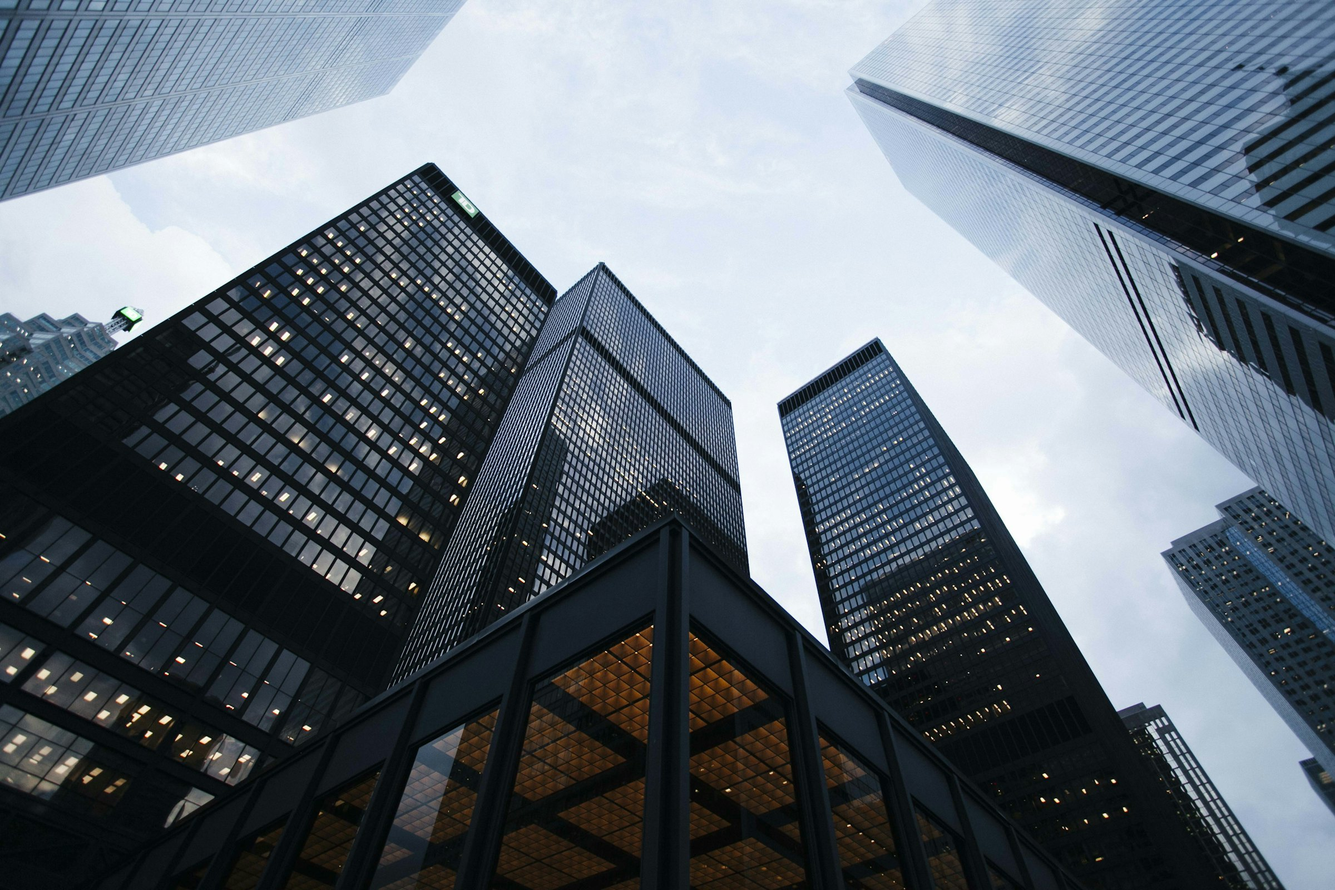
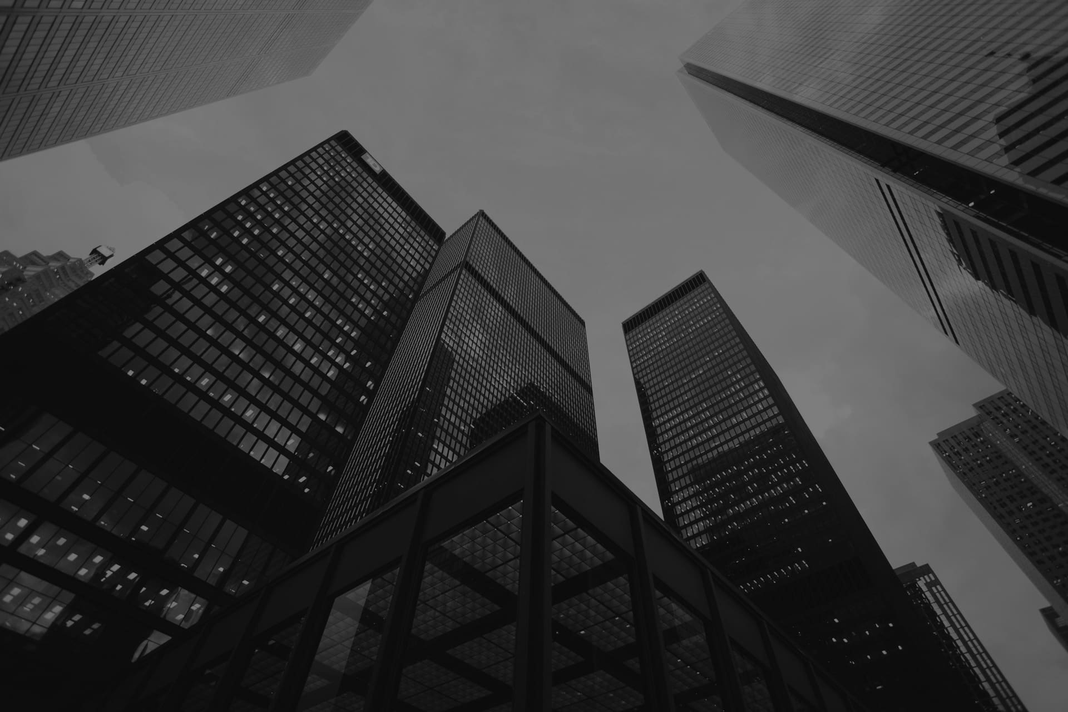
seo changes

diff --git a/src/components/ui.tsx b/src/components/ui.tsx
@@ -90,13 +90,33 @@ export function SectionHeading({
  * Photographic backdrop for dark page headers. Desaturated and held back
  * behind an ink wash so the headline stays the loudest thing on screen.
  */
-export function HeroBackdrop({ src, priority = false }: { src: string; priority?: boolean }) {
+export function HeroBackdrop({ src }: { src: string }) {
   return (
     <div aria-hidden="true" className="absolute inset-0 -z-10">
-      <Image src={src} alt="" fill priority={priority} sizes="100vw" quality={60} className="object-cover opacity-45 grayscale" />
+      {/* The photo files are already desaturated and darkened, so no CSS filter is needed. */}
+      <Image src={src} alt="" fill preload fetchPriority="high" loading="eager" sizes="100vw" quality={60} className="object-cover" />
       <div className="absolute inset-0 bg-[linear-gradient(90deg,#151613_0%,rgba(21,22,19,0.88)_45%,rgba(21,22,19,0.55)_100%)]" />
       <div className="absolute inset-x-0 bottom-0 h-1/3 bg-[linear-gradient(0deg,#151613,transparent)]" />
     </div>
+  );
+}
+
+/**
+ * Page heading for dark headers. The short keyword label and the headline
+ * are one <h1>, so search engines read "ERP System Development: Stop running
+ * a company on spreadsheets" while visitors see a label above a headline.
+ */
+export function HeroHeading({ label, children, size = "h1" }: { label?: string; children: ReactNode; size?: "h1" | "display" }) {
+  return (
+    <h1>
+      {label && (
+        <>
+          <span className="eyebrow block text-lime">{label}</span>
+          <span className="sr-only">: </span>
+        </>
+      )}
+      <span className={`${size} block ${label ? "mt-4" : ""}`}>{children}</span>
+    </h1>
   );
 }
 
@@ -111,13 +131,17 @@ export function PageHero({
   title,
   lead,
   crumbs,
+  path,
   children,
   aside,
 }: {
+  /** Short keyword label. Rendered as the first part of the page's <h1>. */
   eyebrow?: string;
   title: ReactNode;
   lead?: ReactNode;
   crumbs?: Crumb[];
+  /** This page's path. When given, breadcrumb structured data is emitted. */
+  path?: string;
   /** Buttons or meta shown under the lead. */
   children?: ReactNode;
   /** Optional right column on large screens. */
@@ -125,7 +149,7 @@ export function PageHero({
 }) {
   return (
     <section className="on-ink relative isolate overflow-hidden bg-ink text-paper">
-      <HeroBackdrop src="/images/hero-interior.jpg" priority />
+      <HeroBackdrop src="/images/hero-interior.jpg" />
       <div className="wrap pb-16 pt-10 md:pb-24 md:pt-14">
         {crumbs && (
           <nav aria-label="Breadcrumb" className="mb-10 md:mb-14">
@@ -154,14 +178,27 @@ export function PageHero({
         )}
         <div className={aside ? "grid gap-12 lg:grid-cols-[1.35fr_1fr] lg:gap-16" : ""}>
           <div className="max-w-4xl">
-            {eyebrow && <Eyebrow tone="dark">{eyebrow}</Eyebrow>}
-            <h1 className={`h1 ${eyebrow ? "mt-4" : ""}`}>{title}</h1>
+            <HeroHeading label={eyebrow}>{title}</HeroHeading>
             {lead && <p className="lead mt-6 max-w-2xl text-fog">{lead}</p>}
             {children && <div className="mt-9">{children}</div>}
           </div>
           {aside && <div className="lg:pt-2">{aside}</div>}
         </div>
       </div>
+      {crumbs && path && (
+        <JsonLd
+          data={{
+            "@context": "https://schema.org",
+            "@type": "BreadcrumbList",
+            itemListElement: [{ label: "Home", href: "/" }, ...crumbs].map((c, i) => ({
+              "@type": "ListItem",
+              position: i + 1,
+              name: c.label,
+              item: `${site.url}${c.href ?? path}`.replace(/\/$/, ""),
+            })),
+          }}
+        />
+      )}
     </section>
   );
 }

diff --git a/src/app/layout.tsx b/src/app/layout.tsx
@@ -3,7 +3,7 @@ import { Geist, Geist_Mono } from "next/font/google";
 import { Footer } from "@/components/footer";
 import { Header } from "@/components/header";
 import { JsonLd } from "@/components/ui";
-import { site } from "@/lib/site";
+import { serviceNav, site } from "@/lib/site";
 import "./globals.css";
 
 const geistSans = Geist({ variable: "--font-geist-sans", subsets: ["latin"], display: "swap" });
@@ -12,7 +12,7 @@ const geistMono = Geist_Mono({ variable: "--font-geist-mono", subsets: ["latin"]
 export const metadata: Metadata = {
   metadataBase: new URL(site.url),
   title: {
-    default: `${site.name} | Custom Software, ERP and AI Development`,
+    default: `Custom Software Development Company | ${site.name}`,
     template: `%s | ${site.name}`,
   },
   description: site.description,
@@ -22,7 +22,7 @@ export const metadata: Metadata = {
     siteName: site.name,
     locale: "en_CA",
     url: site.url,
-    title: `${site.name} | Custom Software, ERP and AI Development`,
+    title: `Custom Software Development Company | ${site.name}`,
     description: site.description,
   },
   twitter: { card: "summary_large_image" },
@@ -44,7 +44,7 @@ export const viewport: Viewport = {
 
 export default function RootLayout({ children }: LayoutProps<"/">) {
   return (
-    <html lang="en" className={`${geistSans.variable} ${geistMono.variable} antialiased`}>
+    <html lang="en-CA" className={`${geistSans.variable} ${geistMono.variable} antialiased`}>
       <body className="flex min-h-dvh flex-col">
         <noscript>
           <style>{`.reveal-group > * { opacity: 1 !important; transform: none !important; }`}</style>
@@ -84,10 +84,14 @@ export default function RootLayout({ children }: LayoutProps<"/">) {
             description: site.description,
             address: site.offices.map((o) => ({
               "@type": "PostalAddress",
-              addressLocality: o.city,
-              addressCountry: o.country,
+              addressLocality: o.city.split(",")[0],
+              addressRegion: "ON",
+              addressCountry: "CA",
             })),
-            sameAs: [site.social.linkedin],
+            areaServed: ["CA", "US"],
+            knowsAbout: serviceNav.map((s) => s.name),
+            // Profiles and phone numbers are published only once they are real.
+            ...(/linkedin\.com\/(company|in)\//.test(site.social.linkedin) ? { sameAs: [site.social.linkedin] } : {}),
           }}
         />
       </body>

diff --git a/src/app/page.tsx b/src/app/page.tsx
@@ -4,7 +4,7 @@ import { ArrowUpRight } from "@phosphor-icons/react/dist/ssr";
 import { CaseCard } from "@/components/case-card";
 import { Icon } from "@/components/icon";
 import { RevealGroup } from "@/components/motion";
-import { ArrowLink, Button, CtaBand, Eyebrow, FaqJsonLd, FaqList, HeroBackdrop, SectionHeading, StatRow } from "@/components/ui";
+import { ArrowLink, Button, CtaBand, Eyebrow, FaqJsonLd, FaqList, HeroBackdrop, HeroHeading, SectionHeading, StatRow } from "@/components/ui";
 import { caseStudies } from "@/content/case-studies";
 import { CONSULTATION_HREF, industryNav, serviceNav, site } from "@/lib/site";
 import type { Faq, IconKey } from "@/lib/types";
@@ -91,11 +91,12 @@ export default function HomePage() {
     <>
       {/* Hero */}
       <section className="on-ink relative isolate overflow-hidden bg-ink text-paper">
-        <HeroBackdrop src="/images/hero-towers.jpg" priority />
+        <HeroBackdrop src="/images/hero-towers.jpg" />
         <div className="wrap flex min-h-[calc(100svh-4rem)] flex-col justify-end pb-10 pt-20 md:min-h-[calc(100svh-4.5rem)] md:pb-14 md:pt-28">
           <div className="max-w-4xl">
-            <p className="text-[0.9375rem] text-paper/80">A Canadian software engineering company</p>
-            <h1 className="display mt-5">Serious software, built by the top 3% of engineers.</h1>
+            <HeroHeading label="Custom software development company in Canada" size="display">
+              Serious software, built by the top 3% of engineers.
+            </HeroHeading>
             <p className="lead mt-7 max-w-2xl text-paper/75">
               We design, build and run ERP systems, AI automation, mobile apps and custom platforms for companies
               whose operations depend on them. Built by senior engineers and delivered on a scope and price you approve before we start.

diff --git a/next.config.ts b/next.config.ts
@@ -1,9 +1,14 @@
 import type { NextConfig } from "next";
 
 const nextConfig: NextConfig = {
-  /* config options here */
   cacheComponents: true,
   partialPrefetching: true,
+  poweredByHeader: false,
+  images: {
+    // AVIF first: roughly a third smaller than WebP for the hero photographs.
+    formats: ["image/avif", "image/webp"],
+    qualities: [60, 75],
+  },
   turbopack: {
     rules: {
       "*.css": {
@@ -11,6 +16,31 @@ const nextConfig: NextConfig = {
         as: "*.css",
       },
     },
+  },
+  async redirects() {
+    return [
+      // One canonical host. Search engines otherwise treat www and non-www as two sites.
+      {
+        source: "/:path*",
+        has: [{ type: "host", value: "www.appssolutionstech.com" }],
+        destination: "https://appssolutionstech.com/:path*",
+        permanent: true,
+      },
+    ];
+  },
+  async headers() {
+    return [
+      {
+        source: "/:path*",
+        headers: [
+          { key: "Strict-Transport-Security", value: "max-age=63072000; includeSubDomains; preload" },
+          { key: "X-Content-Type-Options", value: "nosniff" },
+          { key: "X-Frame-Options", value: "SAMEORIGIN" },
+          { key: "Referrer-Policy", value: "strict-origin-when-cross-origin" },
+          { key: "Permissions-Policy", value: "camera=(), microphone=(), geolocation=()" },
+        ],
+      },
+    ];
   },
 };
 

diff --git a/src/app/contact/page.tsx b/src/app/contact/page.tsx
@@ -53,7 +53,8 @@ export default function ContactPage() {
   return (
     <>
       <PageHero
-        eyebrow="Contact"
+        eyebrow="Contact Apps Solutions Tech"
+        path="/contact"
         title="Tell us what you need built."
         lead="Write a few lines about the project. A senior engineer will read it and reply within one business day with questions, a first opinion and a suggested next step."
         crumbs={[{ label: "Contact" }]}
@@ -146,7 +147,15 @@ export default function ContactPage() {
             url: site.url,
             email: site.email,
             contactPoint: [
-              { "@type": "ContactPoint", contactType: "sales", telephone: site.phoneCanada, areaServed: "CA", availableLanguage: "English" },
+              {
+                "@type": "ContactPoint",
+                contactType: "sales",
+                email: site.email,
+                // The phone number is published to search engines only once it is a real one.
+                ...(/000/.test(site.phoneCanada) ? {} : { telephone: site.phoneCanada }),
+                areaServed: ["CA", "US"],
+                availableLanguage: "English",
+              },
             ],
           },
         }}

diff --git a/src/app/services/[slug]/page.tsx b/src/app/services/[slug]/page.tsx
@@ -45,12 +45,10 @@ export default async function ServicePage({ params }: Props) {
         aside={
           <dl className="border-t border-ink-line">
             {facts.map((f) => (
-              <div key={f.label} className="flex items-start gap-4 border-b border-ink-line py-5">
-                <Icon name={f.icon} size={22} className="mt-0.5 shrink-0 text-lime" />
-                <div>
-                  <dt className="eyebrow text-fog">{f.label}</dt>
-                  <dd className="mt-2 text-[0.9375rem] leading-snug">{f.value}</dd>
-                </div>
+              <div key={f.label} className="relative border-b border-ink-line py-5 pl-10">
+                <Icon name={f.icon} size={22} className="absolute left-0 top-5 text-lime" />
+                <dt className="eyebrow text-fog">{f.label}</dt>
+                <dd className="mt-2 text-[0.9375rem] leading-snug">{f.value}</dd>
               </div>
             ))}
           </dl>

diff --git a/src/app/sitemap.ts b/src/app/sitemap.ts
@@ -1,7 +1,6 @@
 import type { MetadataRoute } from "next";
 import { jobs } from "@/content/careers";
 import { caseStudies } from "@/content/case-studies";
-import { consultations } from "@/content/consultations";
 import { industryNav, serviceNav, site } from "@/lib/site";
 
 type Entry = MetadataRoute.Sitemap[number];
@@ -37,7 +36,6 @@ export default function sitemap(): MetadataRoute.Sitemap {
     ...serviceNav.map((s) => entry(`/services/${s.slug}`, 0.8, "monthly")),
     ...industryNav.map((s) => entry(`/industries/${s.slug}`, 0.8, "monthly")),
     ...caseStudies.map((s) => entry(`/case-studies/${s.slug}`, 0.7, "monthly")),
-    ...consultations.map((s) => entry(`/consultation/${s.slug}`, 0.6, "monthly")),
     ...jobs.map((j) => entry(`/careers/${j.slug}`, 0.5, "weekly", j.posted)),
     entry("/privacy", 0.2, "yearly"),
     entry("/terms", 0.2, "yearly"),

diff --git a/src/app/case-studies/page.tsx b/src/app/case-studies/page.tsx
@@ -26,7 +26,8 @@ export default function CaseStudiesPage() {
   return (
     <>
       <PageHero
-        eyebrow="Case studies"
+        eyebrow="Software development case studies"
+        path="/case-studies"
         title="Results our clients can show their board."
         lead="Each story covers the problem, the decisions we made and the numbers measured after launch. Client names are withheld under NDA."
         crumbs={[{ label: "Case Studies" }]}
@@ -42,6 +43,7 @@ export default function CaseStudiesPage() {
       </PageHero>
 
       <section className="wrap section">
+        <h2 className="sr-only">All case studies</h2>
         <CaseFilter
           options={options}
           items={caseStudies.map((c) => ({ slug: c.slug, industry: c.industry, card: <CaseCard study={c} /> }))}

diff --git a/src/app/consultation/[slug]/page.tsx b/src/app/consultation/[slug]/page.tsx
@@ -17,7 +17,12 @@ export async function generateMetadata({ params }: Props): Promise<Metadata> {
   const { slug } = await params;
   const session = getConsultation(slug);
   if (!session) return {};
-  return pageMetadata({ title: session.seo.title, description: session.seo.description, path: `/consultation/${session.slug}`, type: "website" });
+  return {
+    ...pageMetadata({ title: session.seo.title, description: session.seo.description, path: `/consultation/${session.slug}` }),
+    // Each booking page is a scheduler with little text. They stay reachable through
+    // /consultation but are kept out of search results so they do not dilute it.
+    robots: { index: false, follow: true },
+  };
 }
 
 export default async function ConsultationBookingPage({ params }: Props) {

diff --git a/src/lib/site.ts b/src/lib/site.ts
@@ -13,7 +13,7 @@ export const site = {
   lastUpdated: "2026-11-26",
   tagline: "Software engineering for companies that cannot afford a second attempt.",
   description:
-    "Apps Solutions Tech builds ERP systems, AI chatbots and automation, mobile apps and POS software. A Canadian company with engineers from the top 3% of applicants.",
+    "Apps Solutions Tech is a Canadian custom software development company building ERP systems, AI chatbots and automation, mobile apps and POS software.",
   email: "hello@appssolutionstech.com", // REPLACE
   careersEmail: "careers@appssolutionstech.com", // REPLACE
   phoneCanada: "+1 (000) 000-0000", // REPLACE

diff --git a/src/app/about/page.tsx b/src/app/about/page.tsx
@@ -62,6 +62,7 @@ export default function AboutPage() {
         title="Senior engineers. One accountable Canadian team."
         lead="We started this company to fix one problem: software teams with real talent and nobody answerable to the client. Our contracts, delivery managers and commitments are in Canada. Our engineers come from the top 3% of the people who apply."
         crumbs={[{ label: "About" }]}
+        path="/about"
       >
         <div className="flex flex-col gap-3 sm:flex-row">
           <Button href={CONSULTATION_HREF} variant="lime" arrow>

diff --git a/src/app/services/page.tsx b/src/app/services/page.tsx
@@ -37,7 +37,8 @@ export default function ServicesPage() {
   return (
     <>
       <PageHero
-        eyebrow="Services"
+        eyebrow="Software development services"
+        path="/services"
         title="Eight practices. One team accountable for the result."
         lead="We build the systems a business depends on every day: the ERP, the app, the point of sale, the automation behind them. Each practice is led by a senior engineer who has shipped that kind of system before."
         crumbs={[{ label: "Services" }]}
